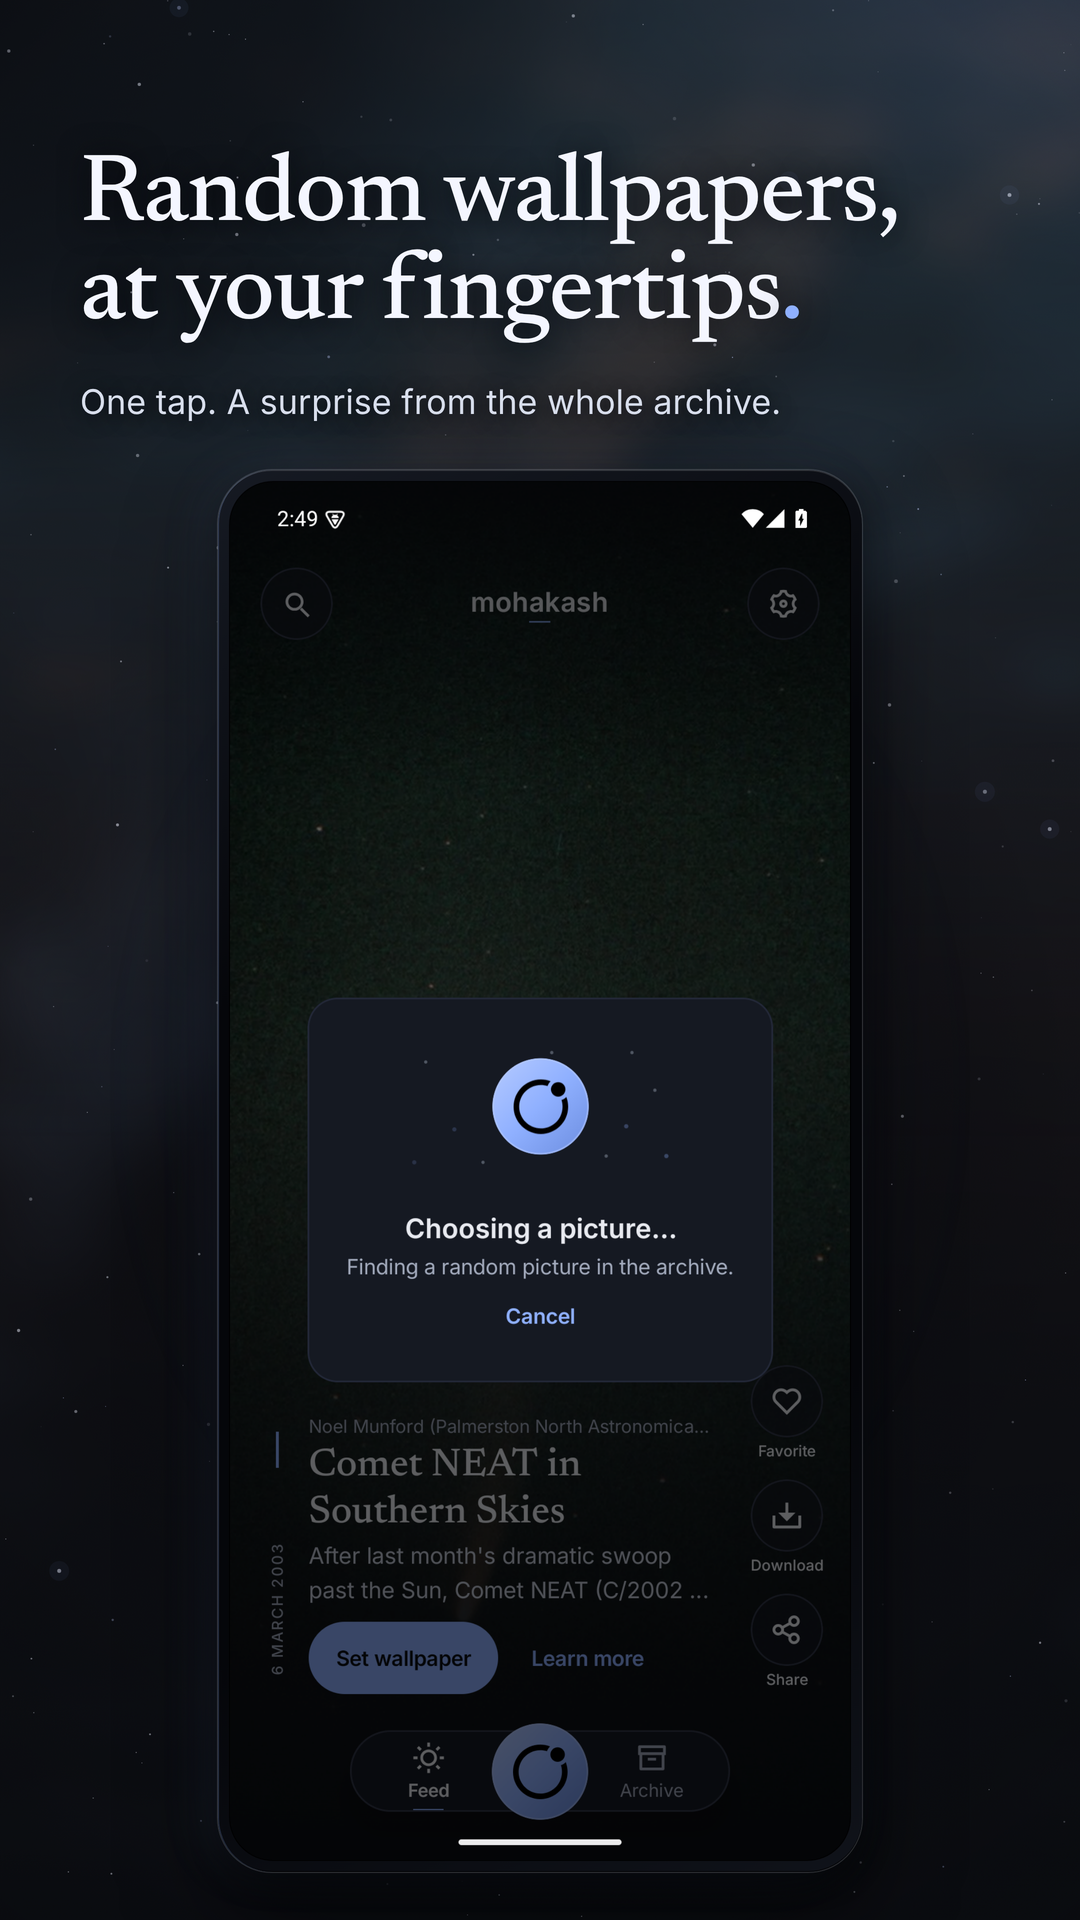
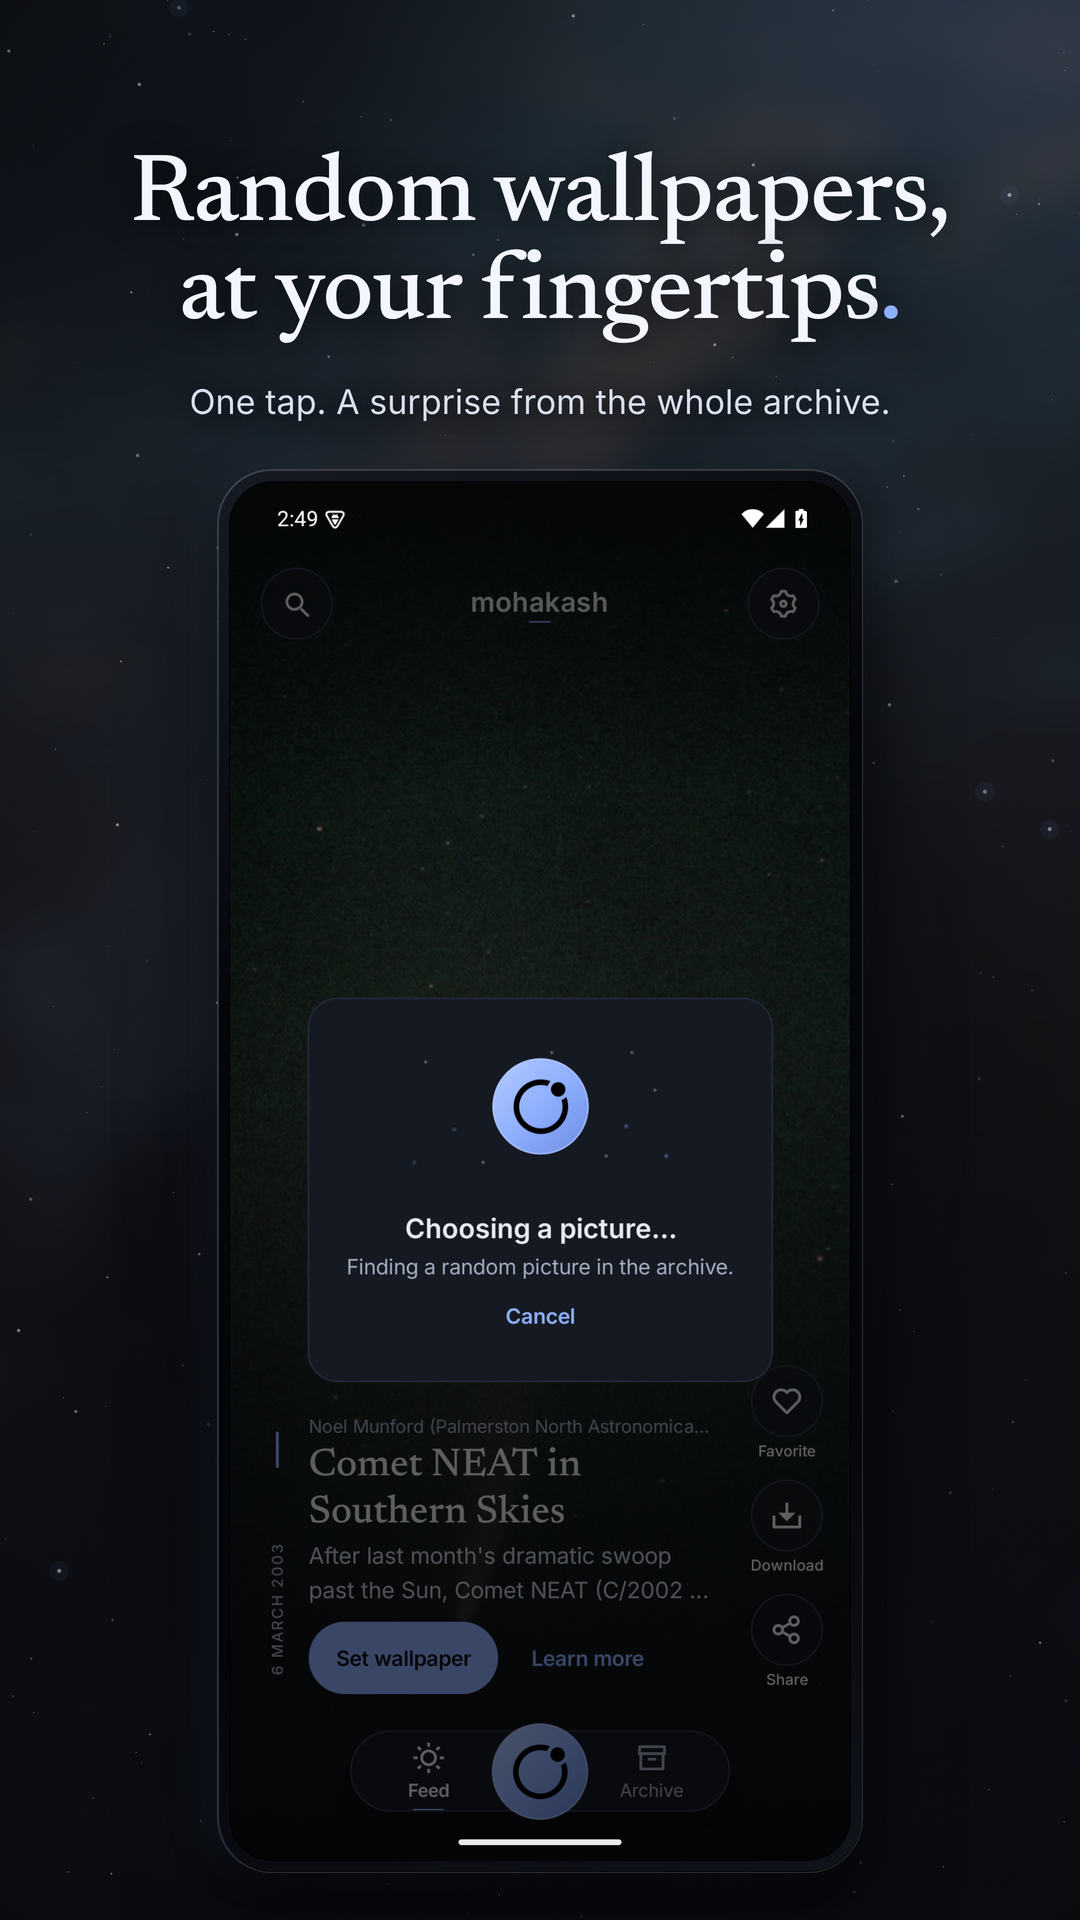
feat(store): centre campaign typography
- Centre every headline and support line on the six screenshots.
- Centre the feature-graphic copy block while keeping it inside the editorial
  panel and away from the app window.
- Remove the temporary Play Store preview site from the working tree.

Changed region(s): [[0.0611, 0.0625, 0.8861, 0.2188]]

diff --git a/store-assets/README.md b/store-assets/README.md
@@ -20,7 +20,7 @@ Campaign line: **“New wallpaper, every day.”**
 | 05 | Full-quality downloads | **Full resolution. Save or set it.** | The original image, one tap away. | *Asperitas Clouds* entry |
 | 06 | Trust | **No ads. No account.** | Open source. No tracking. Just astronomy. | First-run screen |
 
-Feature graphic copy: **“The sky, on your home screen.”**
+Feature graphic copy (centred in the editorial panel): **“The sky, on your home screen.”**
 Product line: “A new astronomy wallpaper every day.”
 Colophon: “OPEN SOURCE · NO ADS”
 
@@ -40,8 +40,8 @@ or swap the hero frame for a public-domain APOD image and re-render.
 - Background: Deep Space `#0B0D12` / brand `#0B1020`, with a subtle generated
   starfield and low-opacity orbit lines.
 - Surfaces: `#151922`, borders `#323849`; accent Glow `#8FB0FF`.
-- Headline: Newsreader Medium (serif), Starlight `#F4F6FF`, 96 px on the 1080 canvas.
-- Support: Inter Regular 34 px, `#D9DFED`, with a soft dark text shadow and a stronger top scrim so it survives thumbnail scale.
+- Headline: Newsreader Medium (serif), Starlight `#F4F6FF`, 96 px, centred on the 1080 canvas.
+- Support: Inter Regular 34 px, `#D9DFED`, centred, with a soft dark text shadow and a stronger top scrim so it survives thumbnail scale.
 - Backgrounds are quieter than the first cut: 260 stars max, no orbit/registration marks, reduced crest wash. The phone is 620 px wide so the UI reads at small sizes.
 - Campaign plates deliberately omit a separate wordmark/folio/kicker so the
   real app screenshot is the interface; the app's own in-screen wordmark stays.
